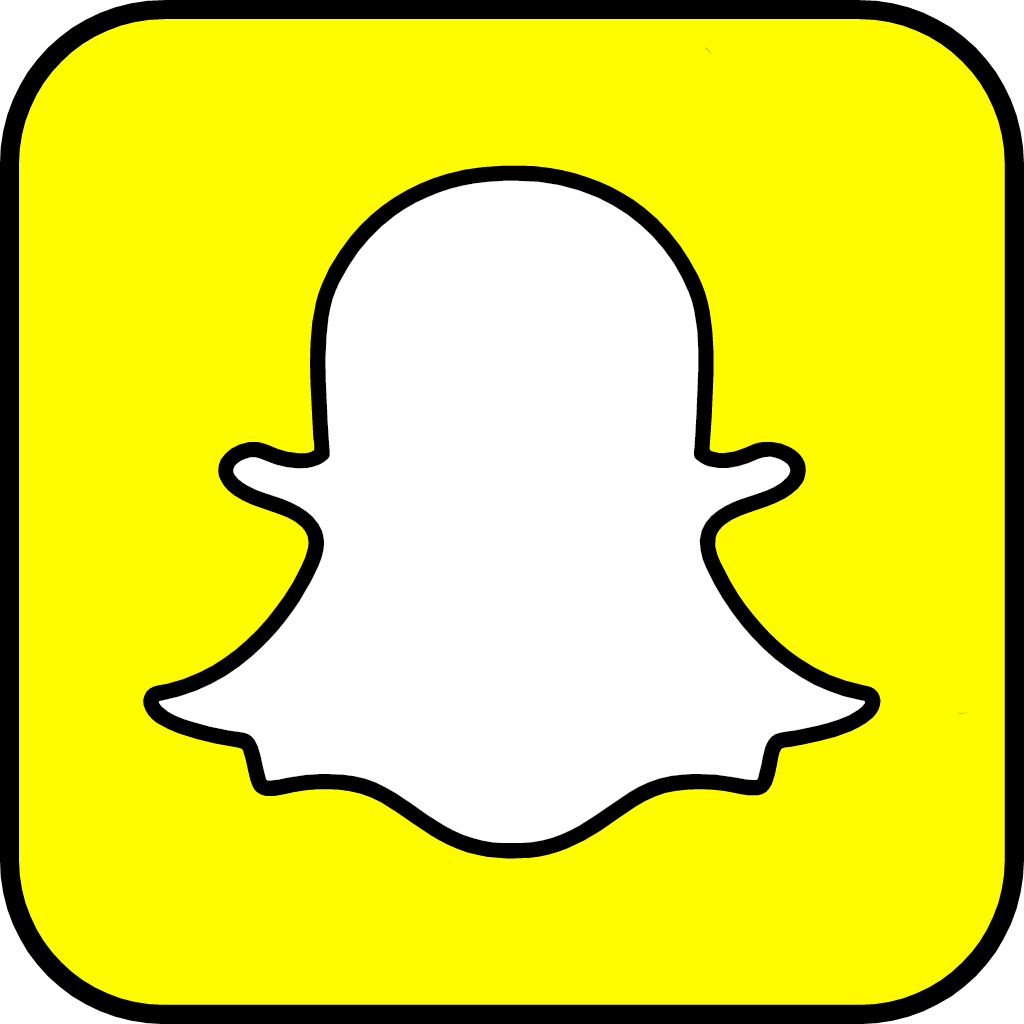
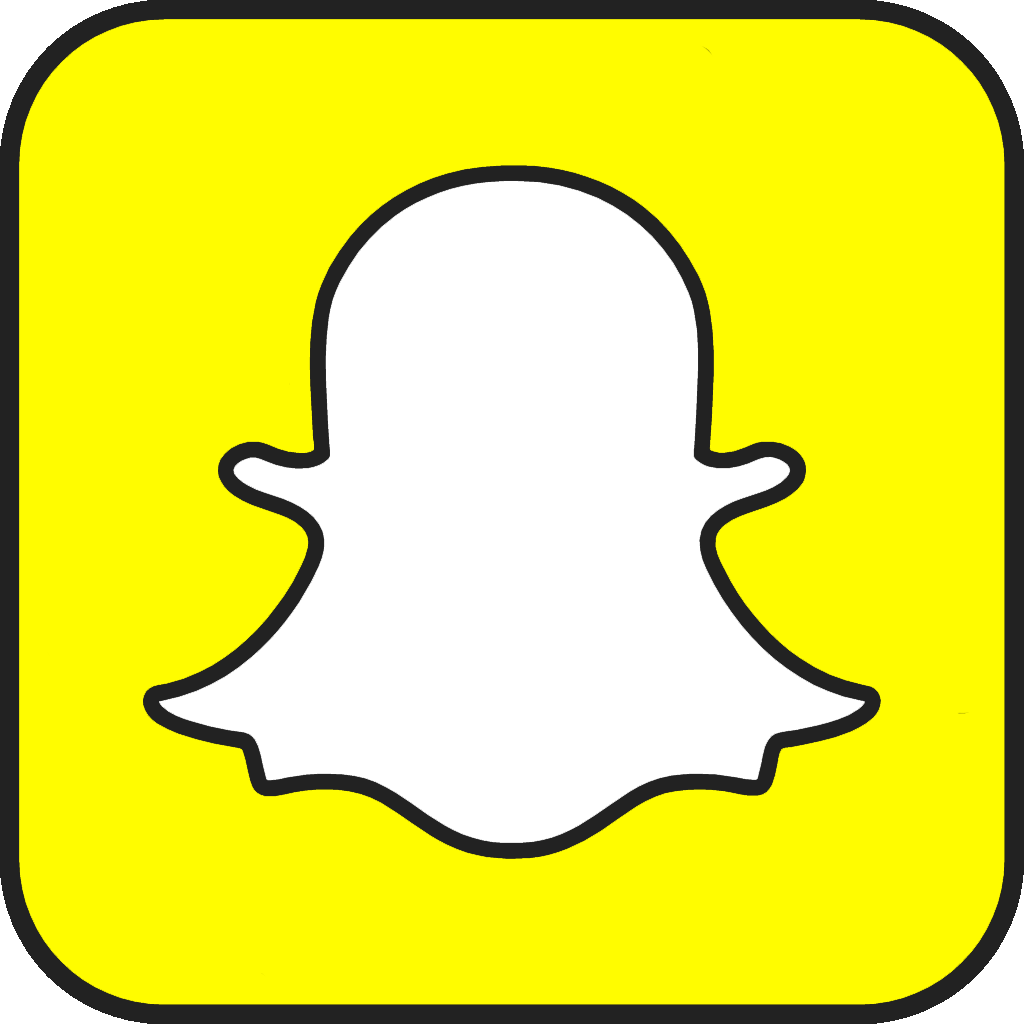
snapchat particles bounce off each other

Changed region(s): [[0.0, 0.0, 1.0, 1.0], [0.125, 0.1562, 0.875, 0.8438]]

diff --git a/p5-snapchat/sketch.js b/p5-snapchat/sketch.js
@@ -3,11 +3,14 @@ var snapSketch = function( p ) {
 	var containerWidth, containerHeight;
 	var baseImg;
 	var gridSize = 19;
+	var circleSize;
+	var velocityLimit = 3;
 
 	p.setup = function() {
 		containerWidth = document.getElementById( 'snap-sizer' ).offsetWidth; // get sizer element sizes
 		containerHeight = document.getElementById( 'snap-sizer' ).offsetHeight;
 		p.createCanvas(containerWidth, containerHeight); // create canvas to match sizer element size
+		circleSize = p.width/35;
 		baseImg = p.loadImage('snapcode.png');  // Load the image
 		corners = p.loadImage('corners.png');  // Load the image
 
@@ -18,6 +21,7 @@ var snapSketch = function( p ) {
 	p.draw = function() {
 		p.clear();
 		p.image(baseImg, 0, 0, p.width, p.height); // Display base snapchat image
+		system.bounce(); // Check if particles need to bounce off each other
 		system.run(); // Run particle system
 		p.image(corners, 0, 0, p.width, p.height); // Display base snapchat image
 	};
@@ -41,7 +45,7 @@ var snapSketch = function( p ) {
 		var mouseVector = p.createVector(p.mouseX, p.mouseY);
 		if ( p5.Vector.dist(this.realPos, mouseVector) < p.width/5 && mouseVector.mag() != 0){
 			this.velocity = p5.Vector.sub(this.realPos, mouseVector);
-			this.velocity.limit(5);
+			this.velocity.limit(velocityLimit);
 		}
 
 		if ( this.realPos.x < 0 ) {
@@ -66,8 +70,8 @@ var snapSketch = function( p ) {
 	// Method to display
 	Particle.prototype.display = function() {
 		p.noStroke();
-		p.fill(0);
-		p.ellipse(this.realPos.x, this.realPos.y, p.width/35, p.width/35);
+		p.fill(34);
+		p.ellipse(this.realPos.x, this.realPos.y, circleSize, circleSize);
 	};
 
 	//////////////////////////////////////////////// Particle System Class
@@ -188,6 +192,27 @@ var snapSketch = function( p ) {
 		}
 	};
 
+	// Method to bounce particles off eachother
+	ParticleSystem.prototype.bounce = function() {
+		for (var i = this.particles.length-1; i >= 0; i--) {
+
+			var particleOne = this.particles[i];
+
+			for (var j = this.particles.length-1; j >= 0; j--) {
+
+				var particleTwo = this.particles[j];
+
+				if ( p5.Vector.dist(particleOne.realPos, particleTwo.realPos) < circleSize ) {
+
+					if ( i != j ){
+						particleOne.velocity = p5.Vector.sub(particleOne.realPos, particleTwo.realPos);
+						particleOne.velocity.limit(velocityLimit);
+					}
+				}
+			}
+		}
+	};
+
 	// Method to run particles
 	ParticleSystem.prototype.run = function() {
 		for (var i = this.particles.length-1; i >= 0; i--) {
@@ -209,6 +234,7 @@ var snapSketch = function( p ) {
 		}
 
 		p.resizeCanvas(containerWidth, containerHeight);
+		circleSize = p.width/35;
 	};
 
 };
